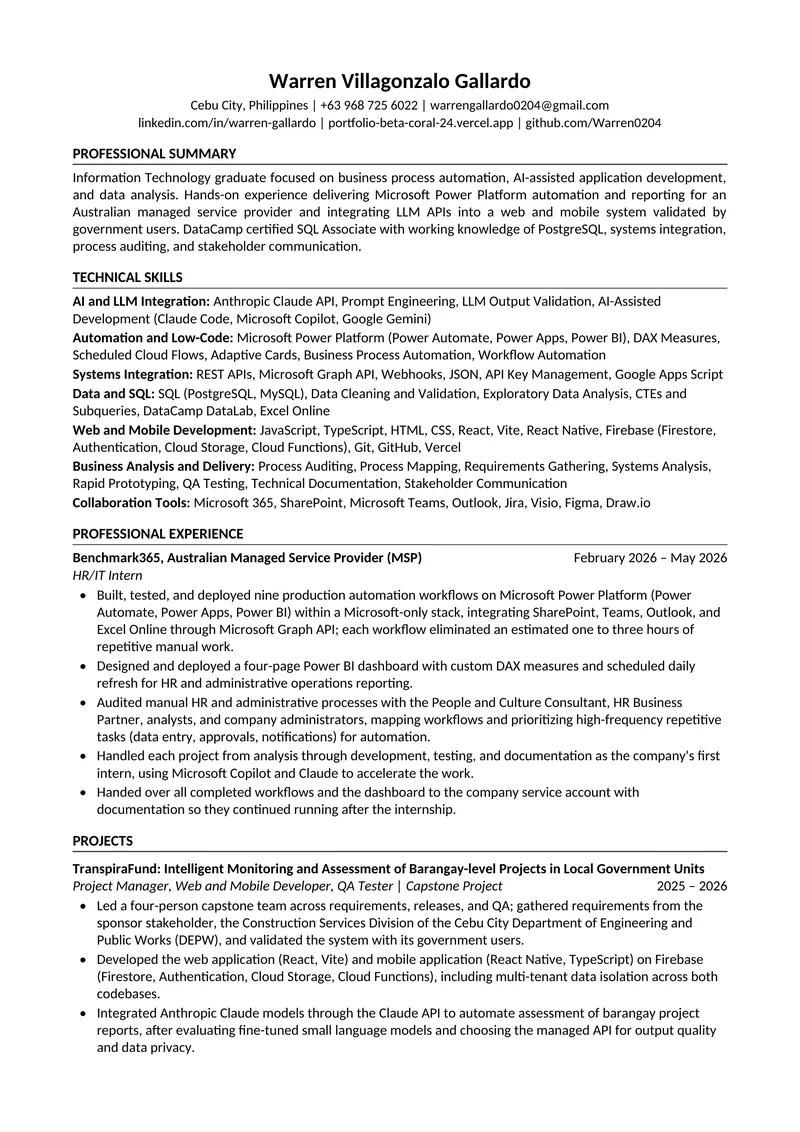
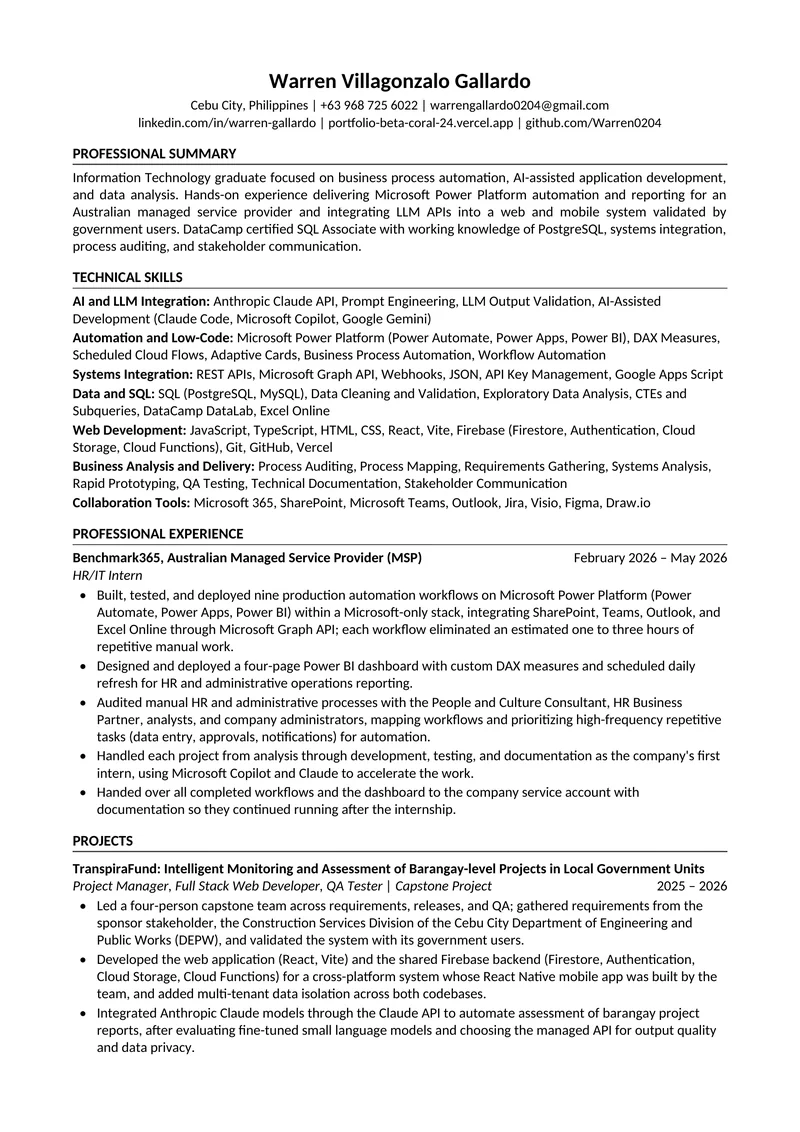
Rename TranspiraFund role

Changed region(s): [[0.125, 0.8348, 0.9062, 0.8966], [0.0938, 0.371, 0.875, 0.4019], [0.2188, 0.773, 0.625, 0.8039]]

diff --git a/js/data/projects.js b/js/data/projects.js
@@ -23,7 +23,7 @@ export const projects = Object.freeze([
        three words, and this is a sentence. */
     teamNote:
       'Ran the team from a Google Sheets task board: Apps Script assigned tasks and an HTML confirm button logged each acknowledgement.',
-    roles: Object.freeze(['Project Manager', 'Web and Mobile Developer', 'QA Tester']),
+    roles: Object.freeze(['Project Manager', 'Full Stack Web Developer', 'QA Tester']),
 
     summary:
       'A cross-platform monitoring system, web and mobile, giving a city engineering department one place to track barangay infrastructure projects from creation through field submission to review, with AI assisted milestone planning and photo verification.',

diff --git a/js/data/skills.js b/js/data/skills.js
@@ -98,7 +98,6 @@ export const stack = Object.freeze([
     title: 'APPLICATION DEVELOPMENT',
     items: Object.freeze([
       'React + Vite',
-      'React Native',
       'Node.js',
       'TypeScript',
       'Firebase',

diff --git a/docs/HANDOFF.md b/docs/HANDOFF.md
@@ -314,6 +314,7 @@ Read newest first. Use these as the pattern for anything new.
 
 | Message                                     | What it covered                                                                                                                                  |
 | ------------------------------------------- | ------------------------------------------------------------------------------------------------------------------------------------------------ |
+| `Rename TranspiraFund role`                 | The capstone role reads Full Stack Web Developer, and React Native leaves my tech stack; the project stays a web and mobile system               |
 | `Add CV viewer overlay`                     | View CV opens the two page renders in a native dialog instead of a new tab; the hero drops Download CV, which the viewer toolbar now carries     |
 | `Add View CV control`                       | A View CV link beside Download CV, opening the PDF in a new tab; the action row is two columns from 560 up so four never strand one              |
 | `Update CV PDF`                             | The September 2026 cut, same path and filename so every link holds; its certifications are the two earned ones instead of one in progress        |
